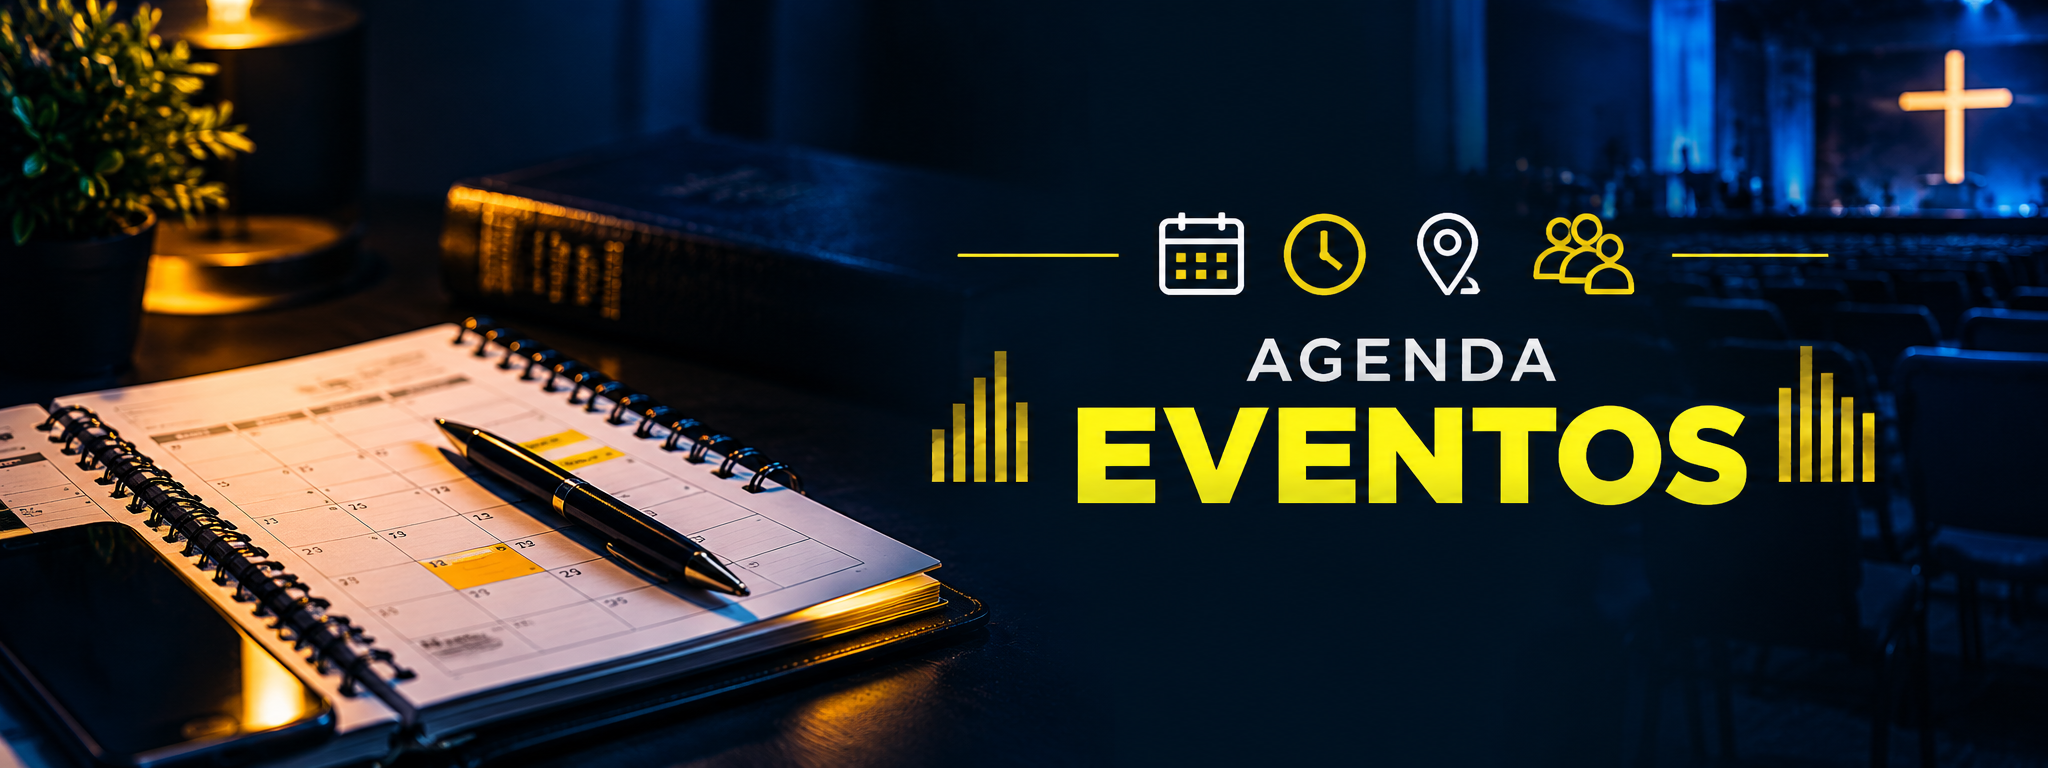
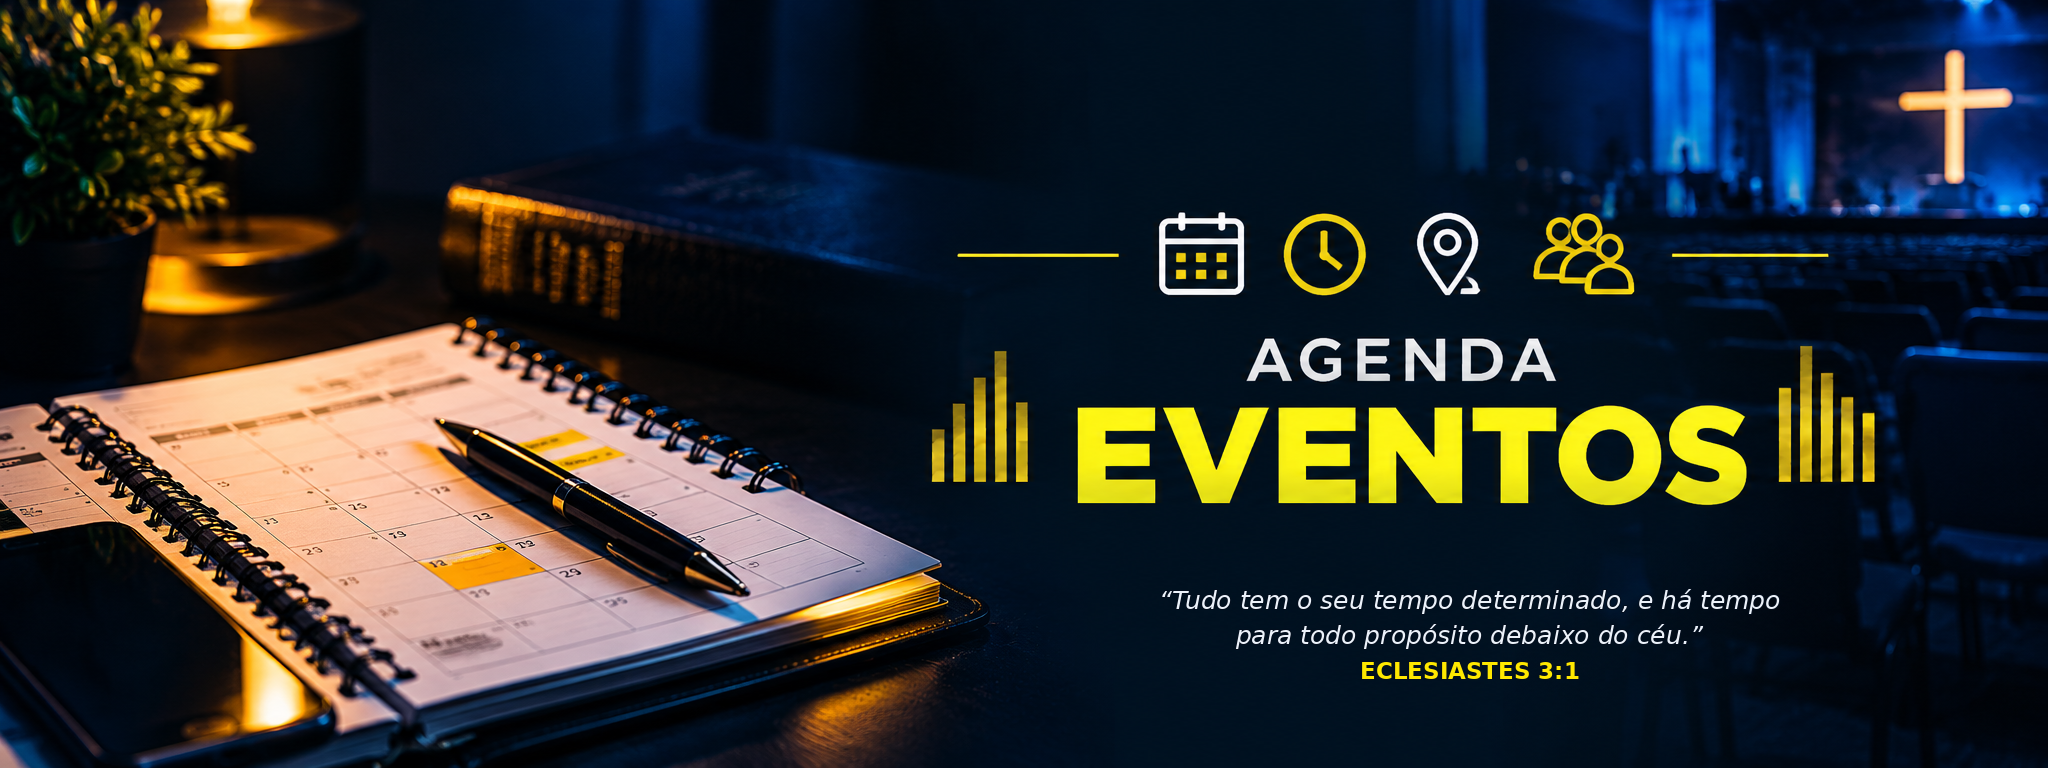
Add files via upload

Changed region(s): [[0.5625, 0.75, 0.875, 0.9062]]

diff --git a/ministerios.html b/ministerios.html
@@ -15,7 +15,7 @@ body{font-family:Arial,Helvetica,sans-serif;background:var(--navy);color:#fff;mi
 .hero{height:clamp(220px,31vw,390px);background:url("./banner-ministerios.png") center/cover no-repeat;border-bottom:3px solid var(--yellow);position:relative}
 .back{position:absolute;top:calc(12px + env(safe-area-inset-top));left:14px;padding:10px 13px;border:1px solid rgba(255,255,0,.5);border-radius:11px;background:rgba(5,19,38,.85);color:var(--yellow);font-weight:800;text-decoration:none;backdrop-filter:blur(5px)}
 main{width:min(100% - 28px,1050px);margin:auto;padding:24px 0}
-.fundamento{width:100%;display:block;border-radius:18px;border:1px solid rgba(255,255,0,.16);margin-bottom:22px}
+
 .busca{display:flex;align-items:center;gap:12px;background:#10233b;border:1px solid var(--line);border-radius:18px;padding:0 17px;height:56px;margin-bottom:20px}
 .busca span{font-size:22px}.busca input{width:100%;background:none;border:0;outline:0;color:#fff;font-size:16px}.busca input::placeholder{color:#9fb0c4}
 .status{padding:24px;text-align:center;color:var(--muted);background:var(--card);border-radius:16px;border:1px solid var(--line)}
@@ -47,7 +47,7 @@ display:flex;flex-direction:column;align-items:center;justify-content:center;
 gap:5px;color:#eee;text-decoration:none;font-size:10px;min-width:0}
 .bottom b{font-size:23px;line-height:1;margin:0;font-weight:normal}
 .bottom .active{color:var(--yellow);font-weight:800}
-@media(max-width:600px){.hero{height:auto;aspect-ratio:8/3;background-size:contain;background-repeat:no-repeat;background-position:center;background-color:#051326}main{width:min(100% - 20px,1050px);padding-top:16px}.fundamento{border-radius:12px}.grid{grid-template-columns:1fr}.card{min-height:116px}}
+@media(max-width:600px){.hero{height:auto;aspect-ratio:8/3;background-size:contain;background-repeat:no-repeat;background-position:center;background-color:#051326}main{width:min(100% - 20px,1050px);padding-top:16px}.grid{grid-template-columns:1fr}.card{min-height:116px}}
 </style>
 </head>
 <body>
@@ -56,9 +56,7 @@ gap:5px;color:#eee;text-decoration:none;font-size:10px;min-width:0}
 </header>
 
 <main>
-  <img class="fundamento" src="./banner-fundamento-ministerios-corrigido.png" alt="Servir não é obrigação, é um privilégio. Colossenses 3:23-24">
-
-  <label class="busca">
+<label class="busca">
     <span>⌕</span>
     <input id="busca" type="search" placeholder="Buscar ministério..." autocomplete="off">
   </label>

diff --git a/agenda.html b/agenda.html
@@ -452,15 +452,7 @@
   <header class="topo" aria-label="Agenda e Eventos">
     <a class="voltar" href="./index.html" aria-label="Voltar para o início">← Início</a>
   </header>
-
-  <section class="fundamento-imagem" aria-label="Fundamento bíblico da Agenda">
-    <img src="./banner-fundamento-agenda.png"
-         alt="Há um tempo determinado para cada propósito. Tudo tem o seu tempo determinado, e há tempo para todo propósito debaixo do céu. Eclesiastes 3:1."
-         loading="eager">
-  </section>
-  <div class="separador-conteudo" aria-hidden="true"></div>
-
-  <main>
+<main>
     <section class="saudacao">
       <h1>Agenda C.A.R.A. 📅</h1>
       <p>Acompanhe os cultos, estudos, reuniões e demais programações da comunidade.</p>

diff --git a/louvor.html b/louvor.html
@@ -1655,11 +1655,6 @@ async function getCentral(rota) {
   >
 </header>
 <div class="divisoria-fluorescente" aria-hidden="true"></div>
-<section class="fundamento-louvor" aria-label="Fundamento do Ministério de Louvor">
-  <img class="fundamento-louvor__arte" src="./banner-fundamento-louvor.png" alt="Adorando ao Senhor com Hinos de Louvor. Tudo o que tem fôlego louve ao Senhor. Louvai ao Senhor. Salmos 150:6">
-</section>
-<div class="divisoria-fluorescente" aria-hidden="true"></div>
-
 <main class="conteudo">
 
 

diff --git a/sw.js b/sw.js
@@ -1,4 +1,4 @@
-const CACHE_VERSION = 'cara-app-v39';
+const CACHE_VERSION = 'cara-app-v40';
 
 const APP_SHELL = [
   './',
@@ -13,11 +13,8 @@ const APP_SHELL = [
   './manifest.webmanifest',
   './logo-cara.png',
   './banner-louvor.png',
-  './banner-fundamento-louvor.png',
   './banner-agenda.png',
-  './banner-fundamento-agenda.png',
   './banner-ministerios.png',
-  './banner-fundamento-ministerios.png',
   './banner-midia.png',
   './banner-estudos.png',
   './icon-192.png',
